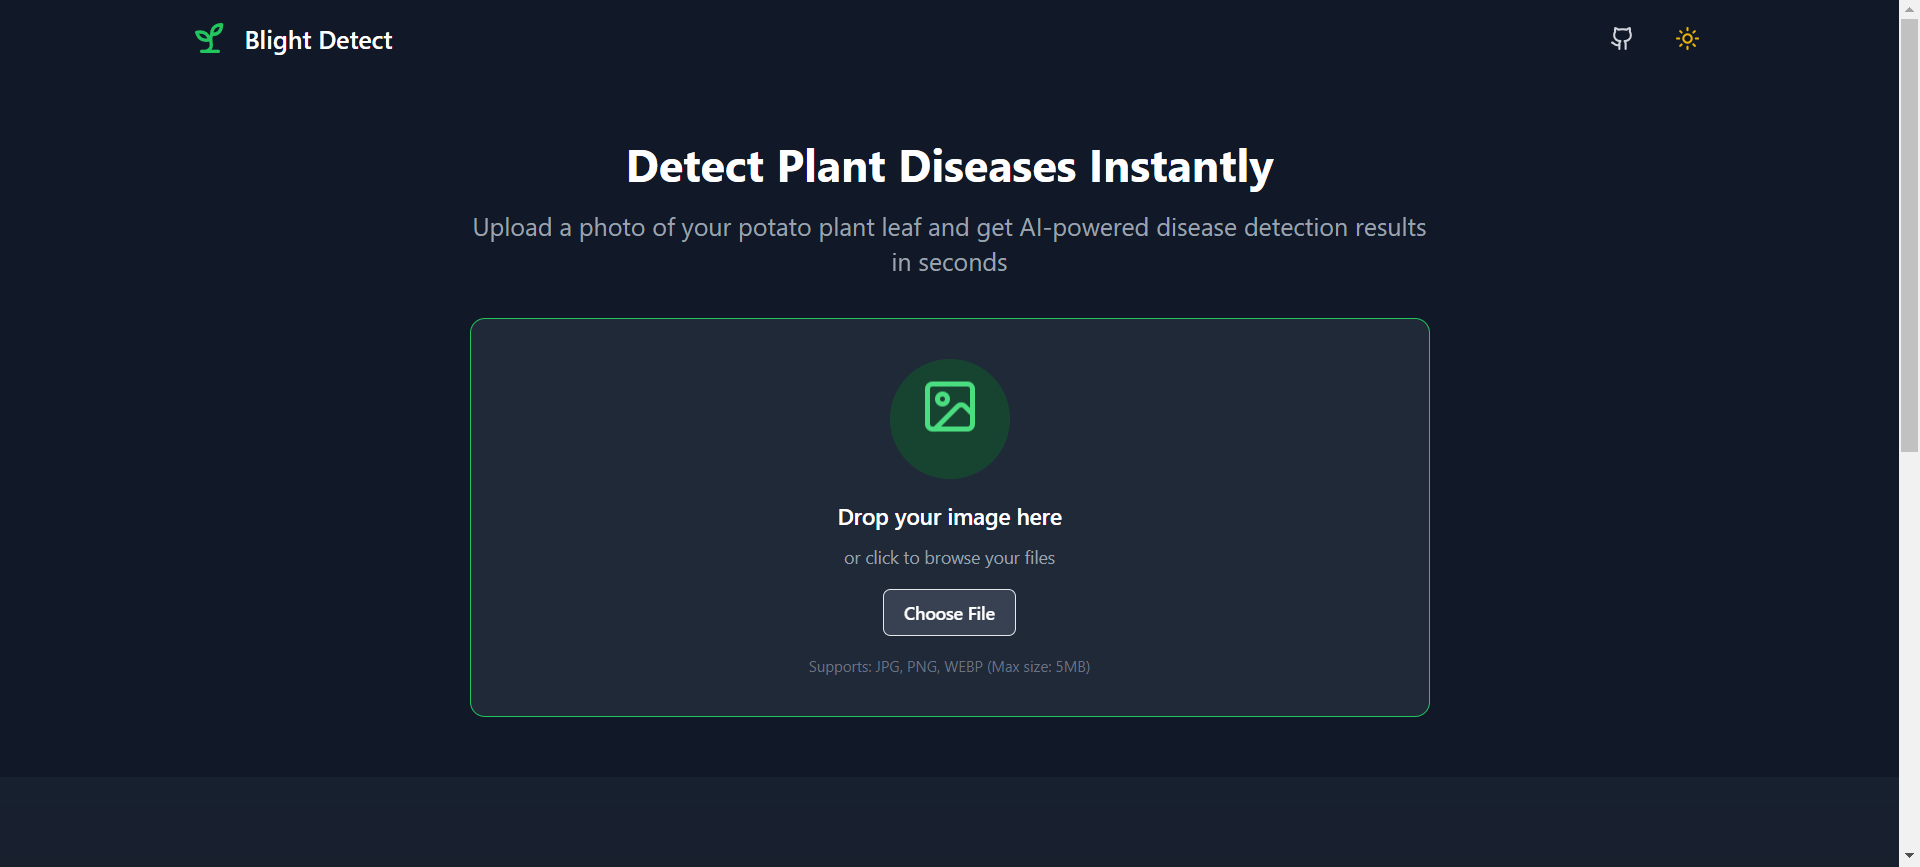
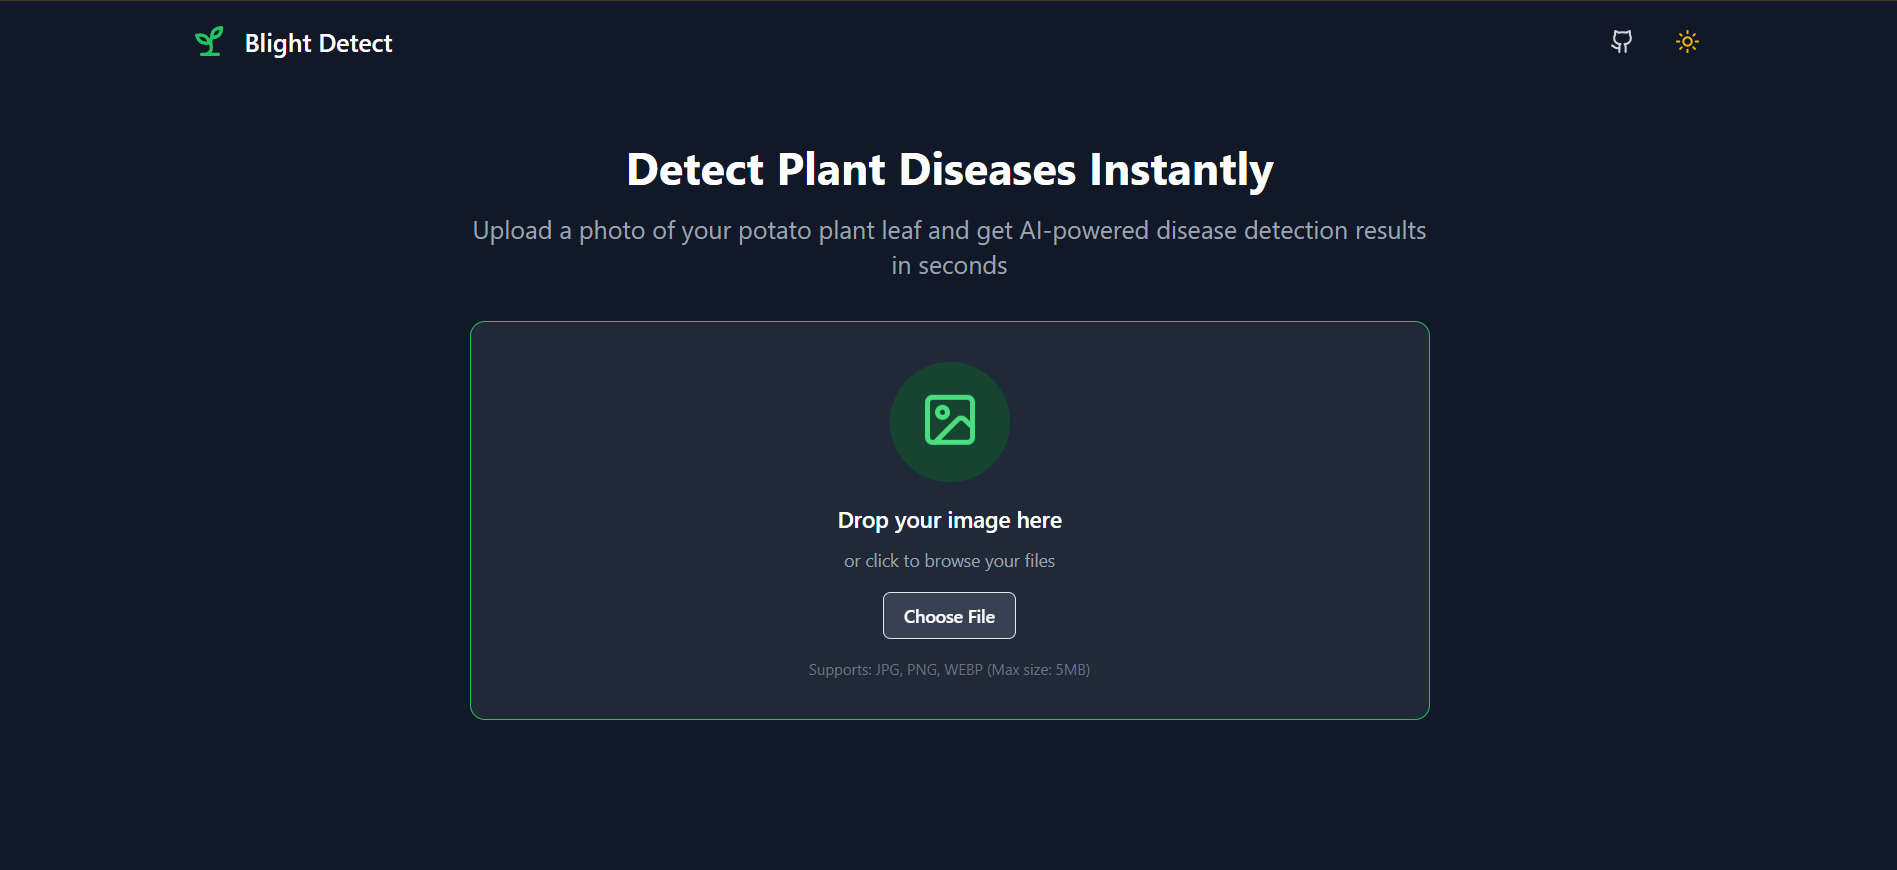
add experience section

diff --git a/src/components/Navbar.jsx b/src/components/Navbar.jsx
@@ -1,5 +1,68 @@
-import React, { useState ,useEffect} from 'react';
-import { Link,useLocation } from 'react-router-dom';
+// import React, { useState ,useEffect} from 'react';
+// import { Link,useLocation } from 'react-router-dom';
+
+// const Navbar = () => {
+//   const [isMobileMenuOpen, setMobileMenuOpen] = useState(false);
+
+//   const toggleMobileMenu = () => {
+//     setMobileMenuOpen(!isMobileMenuOpen);
+//   };
+
+//   const closeMobileMenu = () => {
+//     setMobileMenuOpen(false);
+//   };
+
+//   const { pathname } = useLocation();
+
+//   useEffect(() => {
+//     window.scrollTo(0, 0);
+//   }, [pathname]);
+
+//   return (
+//     <nav className="bg-gray-800 p-4 text-white fixed w-full z-10 top-0" style={{ cursor: 'default' }}>
+//       <div className="mx-auto text-center flex w-5/6 justify-between">
+        
+//         <div className="hidden sm:flex space-x-4 items-center text-sm">
+//           <Link to='/'>Home</Link>
+//           <Link to='/about'>About</Link>
+//         </div>
+//         <div className="text-3xl sm:text-2xl font-extrabold">
+//           <a href="/">Nithin Tejesh</a>
+//         </div>
+//         <div className="hidden sm:flex space-x-4 items-center text-sm">
+//           <Link to='/projects'>Projects</Link>
+//           <Link to='/experience'>Experience</Link>
+//           <Link to='/contact'>Contact</Link>
+//         </div>
+
+//         <div className="sm:hidden">
+//           <button onClick={toggleMobileMenu} className="text-xl focus:outline-none">
+//             {isMobileMenuOpen ? '✕' : '☰'}
+//           </button>
+//         </div>
+//         <div className={`sm:hidden fixed top-0 left-0 w-full h-full bg-gray-800 text-center ${isMobileMenuOpen ? 'flex flex-col items-center justify-center' : 'hidden'}`}>
+//           <button onClick={closeMobileMenu} className="text-xl absolute top-4 right-4 focus:outline-none">
+//             ✕
+//           </button>
+//           <ul className="font-medium text-2xl space-y-4">
+//             <li><Link to='/' onClick={closeMobileMenu}>Home</Link></li>
+//             <li><Link to='/about' onClick={closeMobileMenu}>About</Link></li>
+//             <li><Link to='/projects' onClick={closeMobileMenu}>Projects</Link></li>
+//             <li><Link to='/experience' onClick={closeMobileMenu}>Experince</Link></li>
+//             <li><Link to='/contact' onClick={closeMobileMenu}>Contact</Link></li>
+//           </ul>
+//         </div>
+//       </div>
+//     </nav>
+//   );
+// };
+
+// export default Navbar;
+
+
+
+import React, { useState, useEffect } from 'react';
+import { Link, useLocation } from 'react-router-dom';
 
 const Navbar = () => {
   const [isMobileMenuOpen, setMobileMenuOpen] = useState(false);
@@ -21,34 +84,43 @@ const Navbar = () => {
   return (
     <nav className="bg-gray-800 p-4 text-white fixed w-full z-10 top-0" style={{ cursor: 'default' }}>
       <div className="mx-auto text-center flex w-5/6 justify-between">
-        
-        <div className="hidden sm:flex space-x-4 items-center text-sm">
+        {/* Left Links */}
+        <div className="hidden sm:flex space-x-6 items-center text-sm"> {/* Adjusted spacing */}
           <Link to='/'>Home</Link>
           <Link to='/about'>About</Link>
         </div>
+
+        {/* Logo */}
         <div className="text-3xl sm:text-2xl font-extrabold">
           <a href="/">Nithin Tejesh</a>
         </div>
-        <div className="hidden sm:flex space-x-4 items-center text-sm">
+
+        {/* Right Links */}
+        <div className="hidden sm:flex space-x-6 items-center text-sm"> {/* Adjusted spacing */}
           <Link to='/projects'>Projects</Link>
           <Link to='/experience'>Experience</Link>
           <Link to='/contact'>Contact</Link>
         </div>
 
+        {/* Mobile Menu Toggle Button */}
         <div className="sm:hidden">
           <button onClick={toggleMobileMenu} className="text-xl focus:outline-none">
             {isMobileMenuOpen ? '✕' : '☰'}
           </button>
         </div>
-        <div className={`sm:hidden fixed top-0 left-0 w-full h-full bg-gray-800 text-center ${isMobileMenuOpen ? 'flex flex-col items-center justify-center' : 'hidden'}`}>
+
+        {/* Mobile Menu */}
+        <div
+          className={`sm:hidden fixed top-0 left-0 w-full h-full bg-gray-800 text-center ${isMobileMenuOpen ? 'flex flex-col items-center justify-center' : 'hidden'}`}
+        >
           <button onClick={closeMobileMenu} className="text-xl absolute top-4 right-4 focus:outline-none">
             ✕
           </button>
-          <ul className="font-medium text-2xl space-y-4">
+          <ul className="font-medium text-2xl space-y-6"> {/* Added spacing between mobile menu links */}
             <li><Link to='/' onClick={closeMobileMenu}>Home</Link></li>
             <li><Link to='/about' onClick={closeMobileMenu}>About</Link></li>
             <li><Link to='/projects' onClick={closeMobileMenu}>Projects</Link></li>
-            <li><Link to='/experience' onClick={closeMobileMenu}>Experince</Link></li>
+            <li><Link to='/experience' onClick={closeMobileMenu}>Experience</Link></li>
             <li><Link to='/contact' onClick={closeMobileMenu}>Contact</Link></li>
           </ul>
         </div>

diff --git a/src/components/Experience.jsx b/src/components/Experience.jsx
@@ -7,14 +7,16 @@ import Footer from './Footer';
 const Experience = () => {
   return (
     <div className="experience bg-black w-screen text-white min-h-screen flex flex-col overflow-x-hidden">
-      {/* Header Section */}
-      <div className="pt-16 sm:px-16">
-        <h2 className="text-4xl sm:text-5xl font-extrabold mt-2">Work Experience.</h2>
+      
+      <div className="pt-20 sm:px-16">
+        <h2 className="text-4xl sm:text-5xl font-extrabold mt-4">
+          Work Experience.
+        </h2>
       </div>
 
-      {/* Main Content Section */}
-      <div className="flex-grow">
-        <VerticalTimeline className="mt-9">
+
+      <div className="flex-grow mt-8">
+        <VerticalTimeline>
           {experiences.map((experience) => (
             <VerticalTimelineElement
               key={experience.company}
@@ -63,7 +65,7 @@ const Experience = () => {
         </VerticalTimeline>
       </div>
 
-      {/* Footer Section */}
+      
       <div className="mt-auto">
         <Footer />
       </div>
